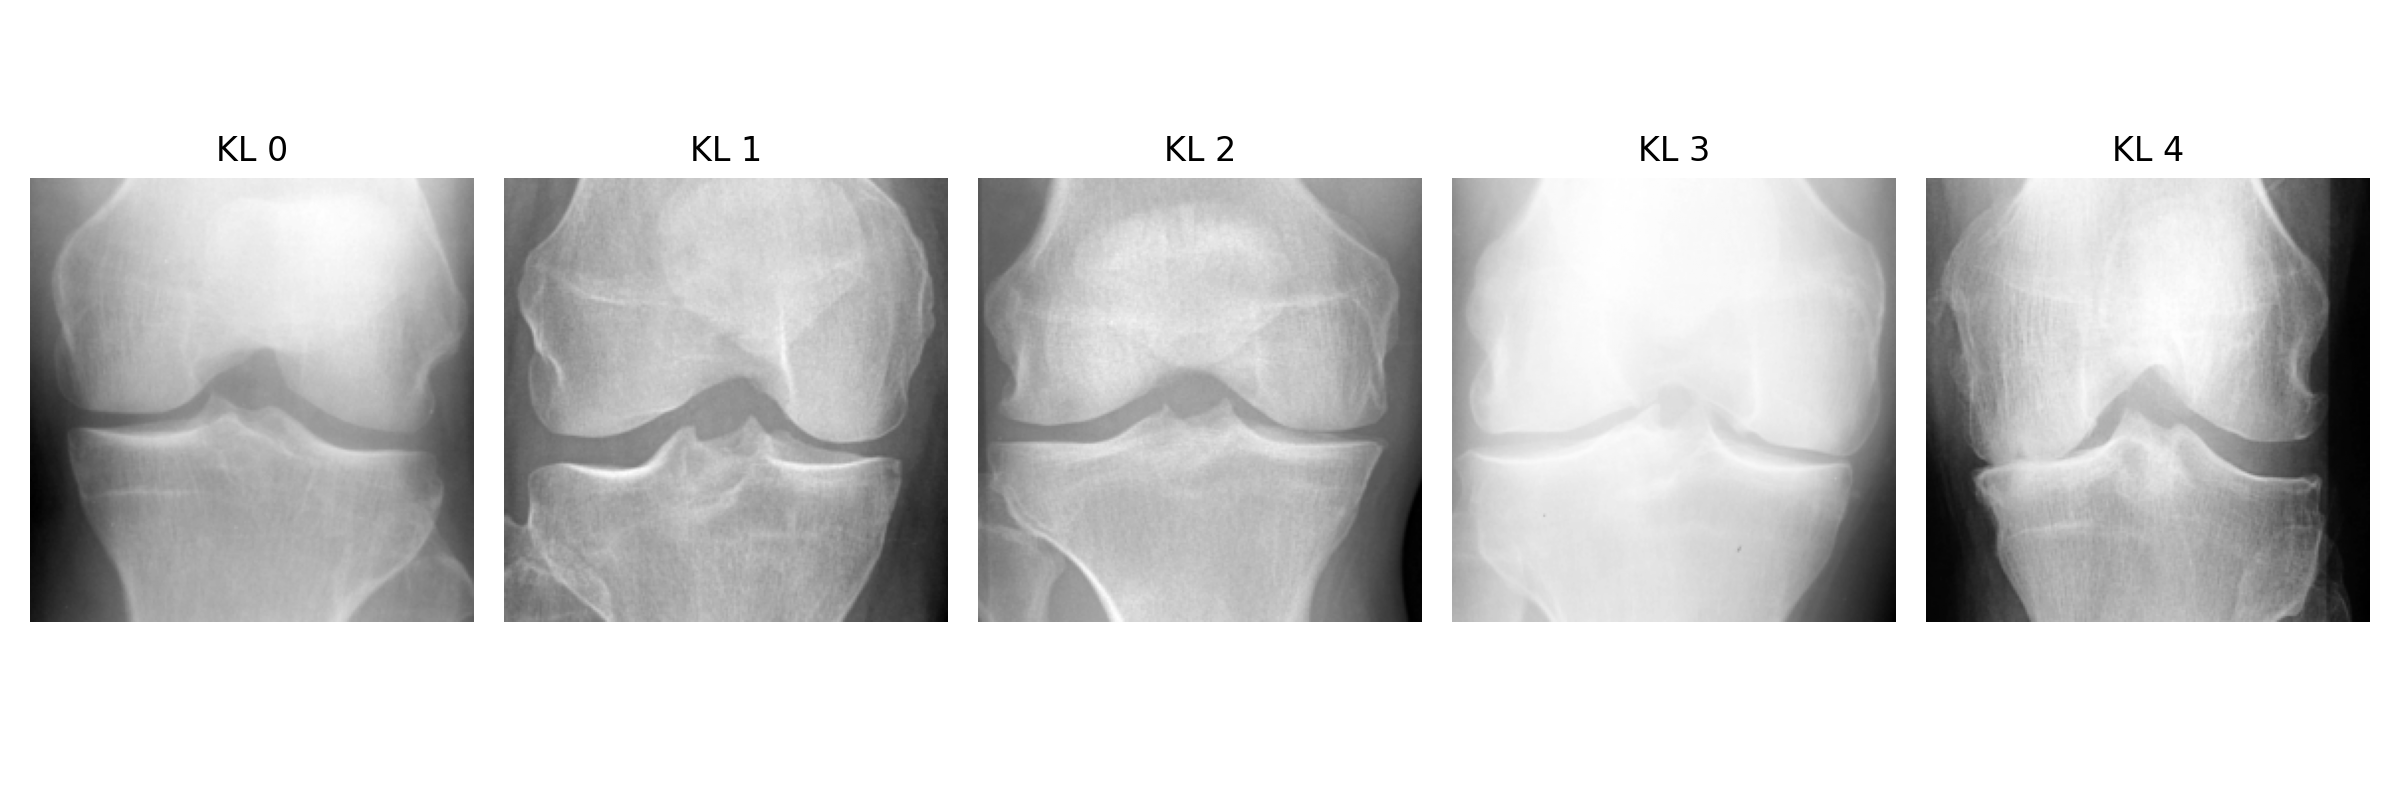
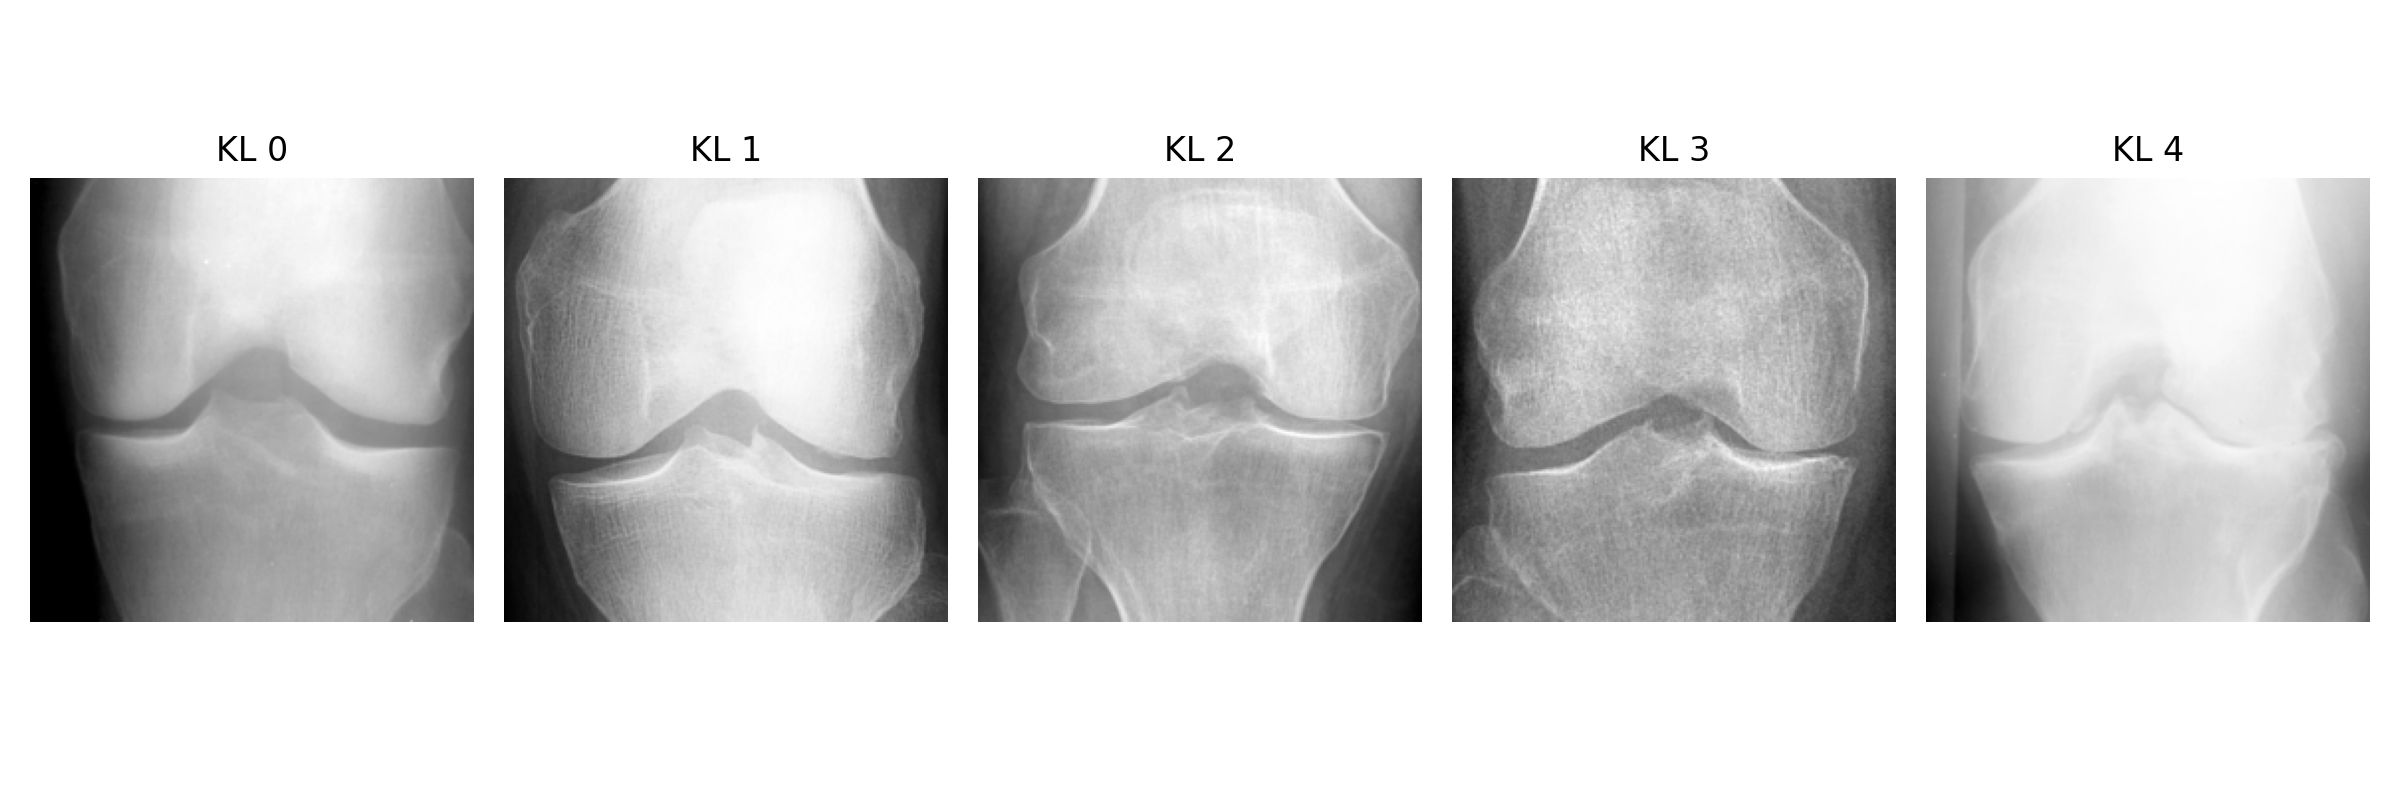
Added a model and changed img to csv

diff --git a/code/model.py b/code/model.py
@@ -1,0 +1,253 @@
+import os
+import torch
+import torch.nn as nn
+import torch.optim as optim
+import torch.utils.data
+import pandas as pd
+from PIL import Image
+
+from torchvision import datasets, transforms, models
+from torch.utils.data import DataLoader
+from sklearn.metrics import accuracy_score, precision_score, recall_score, f1_score
+
+
+DATA_DIR = os.path.join(os.path.dirname(__file__), "..", "data", "splits")
+NUM_CLASSES = 5
+BATCH_SIZE = 8
+EPOCHS = 50
+LR = 1e-4
+DEVICE = "cuda" if torch.cuda.is_available() else "cpu"
+
+BEST_MODEL_PATH = "best_resnet101_kl_grade.pth"
+
+# transform = transforms.Compose([
+#     transforms.Resize((224, 224)),
+#     transforms.Grayscale(num_output_channels=3),  # ResNet expects 3 channels
+#     transforms.ToTensor(),
+#     transforms.Normalize(
+#         mean=[0.485, 0.456, 0.406],
+#         std=[0.229, 0.224, 0.225]
+#     )
+# ])
+
+class CSVDataset(torch.utils.data.Dataset):
+    def __init__(self, csv_file, transform=None):
+        self.data = pd.read_csv(csv_file)
+        self.transform = transform
+
+    def __len__(self):
+        return len(self.data)
+
+    def __getitem__(self, idx):
+        img_path = self.data.iloc[idx, 0]
+        label = self.data.iloc[idx, 1]
+
+        img_path = os.path.join(DATA_DIR, img_path)
+
+        if self.transform:
+            image = self.transform(image)
+
+        return image, torch.tensor(label, dtype=torch.long)
+
+transform = transforms.Compose([
+    transforms.Resize((224, 224)),
+    transforms.Grayscale(num_output_channels=3),
+    transforms.ToTensor(),
+    transforms.Normalize(
+        mean=[0.485, 0.456, 0.406],
+        std=[0.229, 0.224, 0.225]
+    )
+])
+
+train_dataset = CSVDataset(
+    csv_file=os.path.join(DATA_DIR, "train.csv"),
+    transform=transform
+)
+
+val_dataset = CSVDataset(
+    csv_file=os.path.join(DATA_DIR, "val.csv"),
+    transform=transform
+)
+
+test_dataset = CSVDataset(
+    csv_file=os.path.join(DATA_DIR, "test.csv"),
+    transform=transform
+)
+
+#train_dataset = datasets.ImageFolder(
+#    root=os.path.join(DATA_DIR, "train")
+#)
+
+#val_dataset = datasets.ImageFolder(
+#    root=os.path.join(DATA_DIR, "val")
+#)
+
+#test_dataset = datasets.ImageFolder(
+#    root=os.path.join(DATA_DIR, "test")
+#)
+
+train_loader = DataLoader(
+    train_dataset,
+    batch_size=BATCH_SIZE,
+    shuffle=True,
+    num_workers=2
+)
+
+val_loader = DataLoader(
+    val_dataset,
+    batch_size=BATCH_SIZE,
+    shuffle=False,
+    num_workers=2
+)
+
+test_loader = DataLoader(
+    test_dataset,
+    batch_size=BATCH_SIZE,
+    shuffle=False,
+    num_workers=2
+)
+
+
+model = models.resnet101(weights=models.ResNet101_Weights.IMAGENET1K_V2)
+
+# Replace final classification layer for 5 K-L grades
+in_features = model.fc.in_features
+model.fc = nn.Linear(in_features, NUM_CLASSES)
+model = model.to(DEVICE)
+
+#shd chamge optimizer and scheduler?
+criterion = nn.CrossEntropyLoss()
+optimizer = optim.Adam(
+    model.parameters(),
+    lr=LR
+)
+scheduler = optim.lr_scheduler.ReduceLROnPlateau(
+    optimizer,
+    mode="min",
+    factor=0.5,
+    patience=5
+)
+
+def train_one_epoch(model, loader, criterion, optimizer):
+    model.train()
+
+    running_loss = 0.0
+    all_preds = []
+    all_labels = []
+
+    for images, labels in loader:
+        images = images.to(DEVICE)
+        labels = labels.to(DEVICE)
+
+        optimizer.zero_grad()
+
+        outputs = model(images)
+        loss = criterion(outputs, labels)
+
+        loss.backward()
+        optimizer.step()
+
+        running_loss += loss.item() * images.size(0)
+
+        preds = torch.argmax(outputs, dim=1)
+        all_preds.extend(preds.cpu().numpy())
+        all_labels.extend(labels.cpu().numpy())
+
+    epoch_loss = running_loss / len(loader.dataset)
+    epoch_acc = accuracy_score(all_labels, all_preds)
+
+    return epoch_loss, epoch_acc
+
+
+def validate(model, loader, criterion):
+    model.eval()
+
+    running_loss = 0.0
+    all_preds = []
+    all_labels = []
+
+    with torch.no_grad():
+        for images, labels in loader:
+            images = images.to(DEVICE)
+            labels = labels.to(DEVICE)
+
+            outputs = model(images)
+            loss = criterion(outputs, labels)
+
+            running_loss += loss.item() * images.size(0)
+
+            preds = torch.argmax(outputs, dim=1)
+            all_preds.extend(preds.cpu().numpy())
+            all_labels.extend(labels.cpu().numpy())
+
+    epoch_loss = running_loss / len(loader.dataset)
+    epoch_acc = accuracy_score(all_labels, all_preds)
+
+    return epoch_loss, epoch_acc
+
+
+best_val_loss = float("inf")
+
+for epoch in range(EPOCHS):
+    train_loss, train_acc = train_one_epoch(
+        model,
+        train_loader,
+        criterion,
+        optimizer
+    )
+
+    val_loss, val_acc = validate(
+        model,
+        val_loader,
+        criterion
+    )
+
+    scheduler.step(val_loss)
+
+    print(
+        f"Epoch [{epoch + 1}/{EPOCHS}] "
+        f"Train Loss: {train_loss:.4f} | Train Acc: {train_acc:.4f} "
+        f"Val Loss: {val_loss:.4f} | Val Acc: {val_acc:.4f}"
+    )
+
+    # Save best model based on validation loss
+    if val_loss < best_val_loss:
+        best_val_loss = val_loss
+        torch.save(model.state_dict(), BEST_MODEL_PATH)
+        print("Saved best model")
+
+def test_model(model, loader):
+    model.eval()
+
+    all_preds = []
+    all_labels = []
+
+    with torch.no_grad():
+        for images, labels in loader:
+            images = images.to(DEVICE)
+            labels = labels.to(DEVICE)
+
+            outputs = model(images)
+            preds = torch.argmax(outputs, dim=1)
+
+            all_preds.extend(preds.cpu().numpy())
+            all_labels.extend(labels.cpu().numpy())
+
+    accuracy = accuracy_score(all_labels, all_preds)
+    precision = precision_score(all_labels, all_preds, average="macro")
+    recall = recall_score(all_labels, all_preds, average="macro")
+    f1 = f1_score(all_labels, all_preds, average="macro")
+
+    print("\nTest Results")
+    print(f"Accuracy : {accuracy:.4f}")
+    print(f"Precision: {precision:.4f}")
+    print(f"Recall   : {recall:.4f}")
+    print(f"F1-score : {f1:.4f}")
+
+    return accuracy, precision, recall, f1
+
+
+# Load best checkpoint
+model.load_state_dict(torch.load(BEST_MODEL_PATH, map_location=DEVICE))
+
+test_model(model, test_loader)
